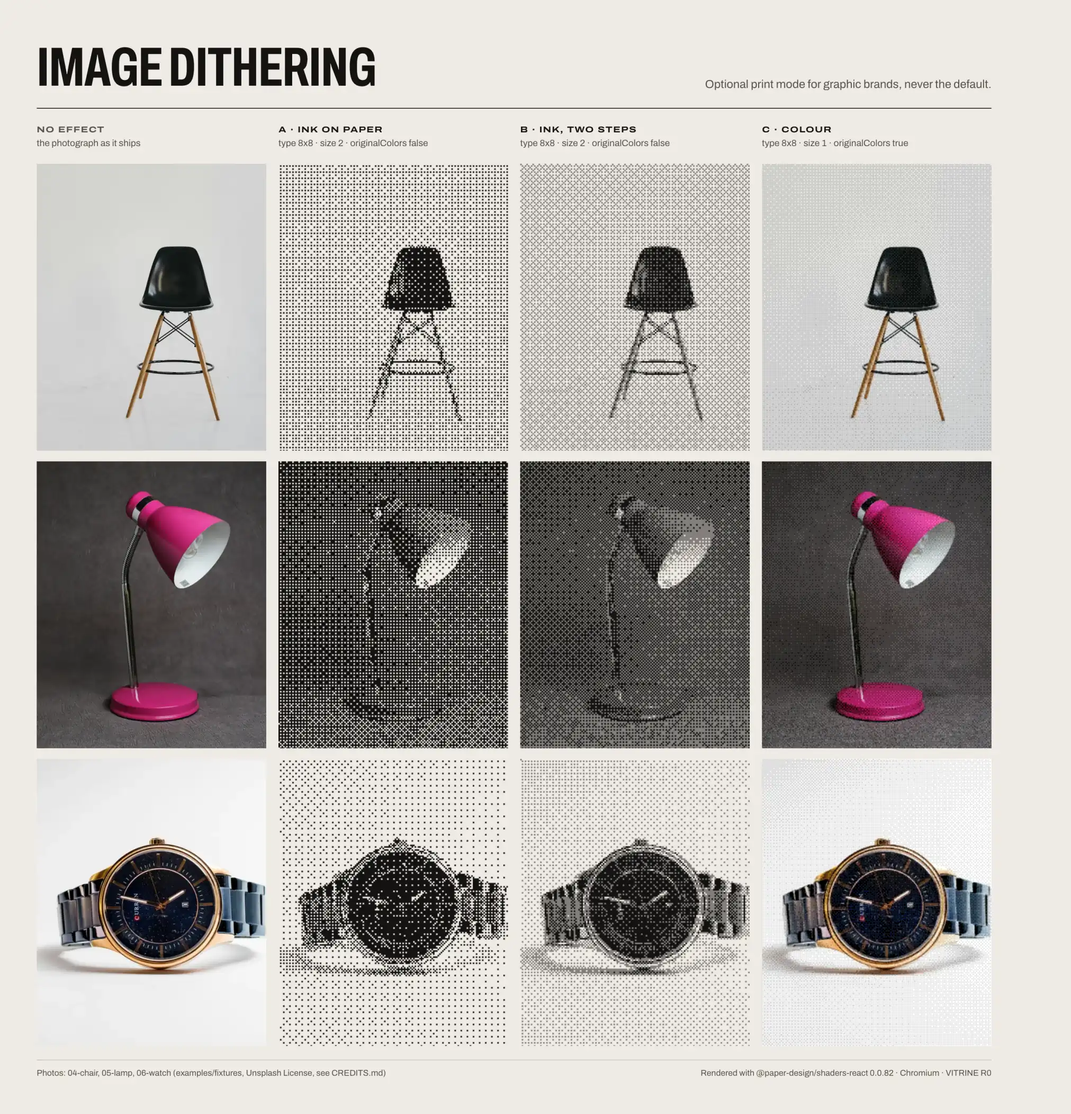
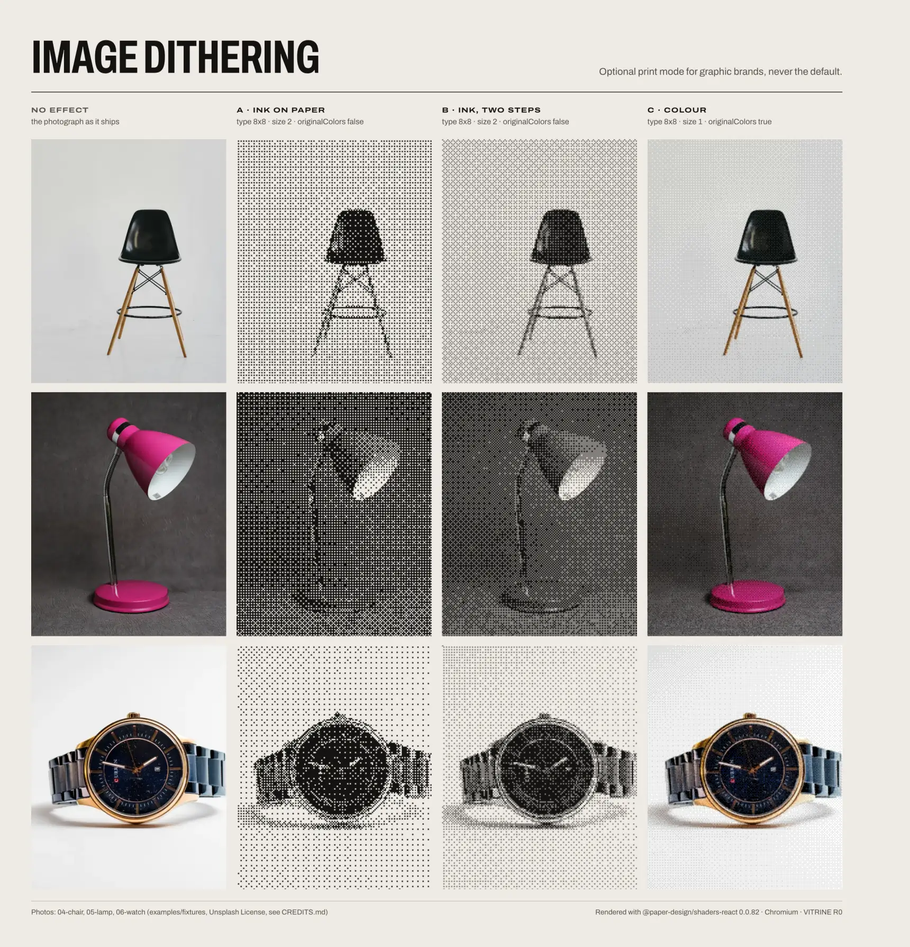
fix(r0): WebP limit is 400 000 bytes, not 400 KiB
r0-image-dithering.webp came out at 402 282 B under the KiB limit; re-exported
at 379 kB (halftone: 392 kB). Devlog notes the re-export.

diff --git a/docs/vitrine/devlog/R0-kierunek.md b/docs/vitrine/devlog/R0-kierunek.md
@@ -223,7 +223,15 @@ lens-distortion  strip 0.48 MB · mp4 0.10 MB · gif 0.74 MB (400 px, 20 fps) ·
 water            strip 0.57 MB · mp4 0.06 MB · gif 1.55 MB (400 px, 20 fps) · 75 frames
 ```
 
-`r0-image-dithering.webp` i `r0-halftone-cmyk.webp` zmieściły się w limicie dopiero przy q 50 i 2023 px: raster w tych dwóch kopiach jest przeskalowany, więc ewentualna mora to skutek eksportu; wzorcem są lokalne PNG (oba efekty i tak ODPADA). Razem w gicie: 34 pliki, **3,9 MB** (`du -ch docs/media/r0-*.webp docs/media/r0-*.json docs/media/r0-*.mp4`).
+Limit w pierwszym eksporcie był liczony w KiB (409 600 B) i `r0-image-dithering.webp` wyszedł na 402 282 B, czyli ponad 400 kB; limit poprawiony na 400 000 B i oba ciężkie pliki wyeksportowane jeszcze raz:
+
+```
+$ node -e "…toWebp('docs/media/r0-image-dithering.png'), toWebp('docs/media/r0-halftone-cmyk.png')"
+r0-image-dithering.webp 379 kB (q 66, 1720 px)
+r0-halftone-cmyk.webp 392 kB (q 50, 2023 px)
+```
+
+W tych dwóch kopiach raster jest przeskalowany (1720 i 2023 px zamiast 2800), więc ewentualna mora to skutek eksportu; wzorcem są lokalne PNG (oba efekty i tak ODPADA). Razem w gicie: 34 pliki, **3,9 MB** (`du -ch docs/media/r0-*.webp docs/media/r0-*.json docs/media/r0-*.mp4`).
 
 ## R3 · Exit Check i werdykt per arkusz
 
